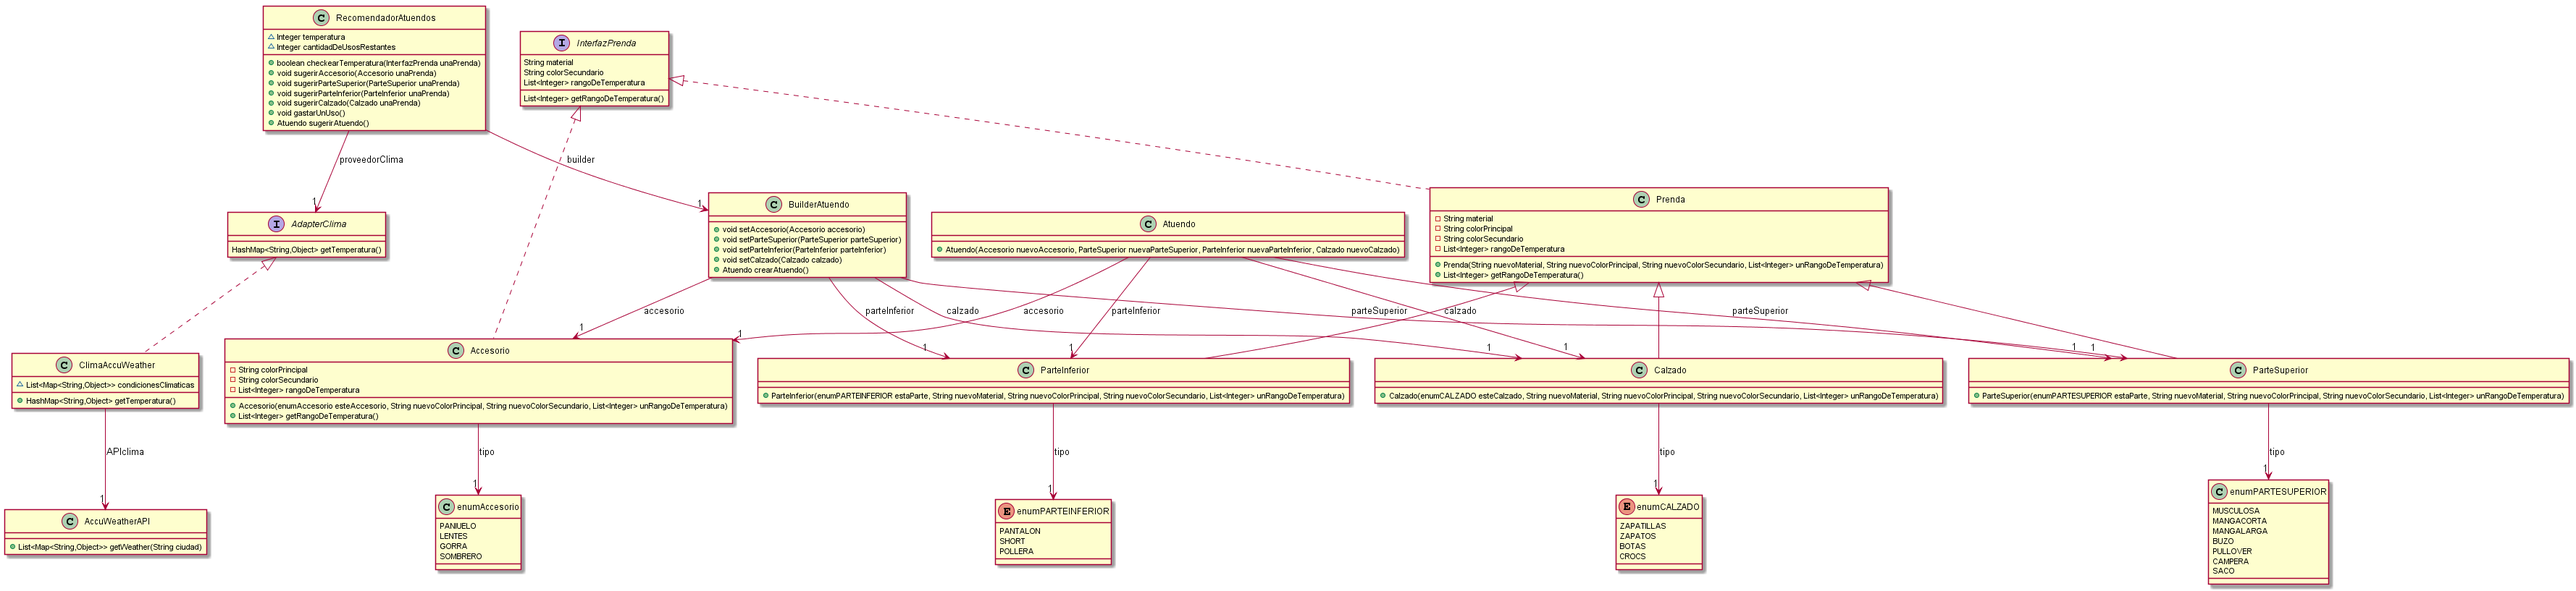
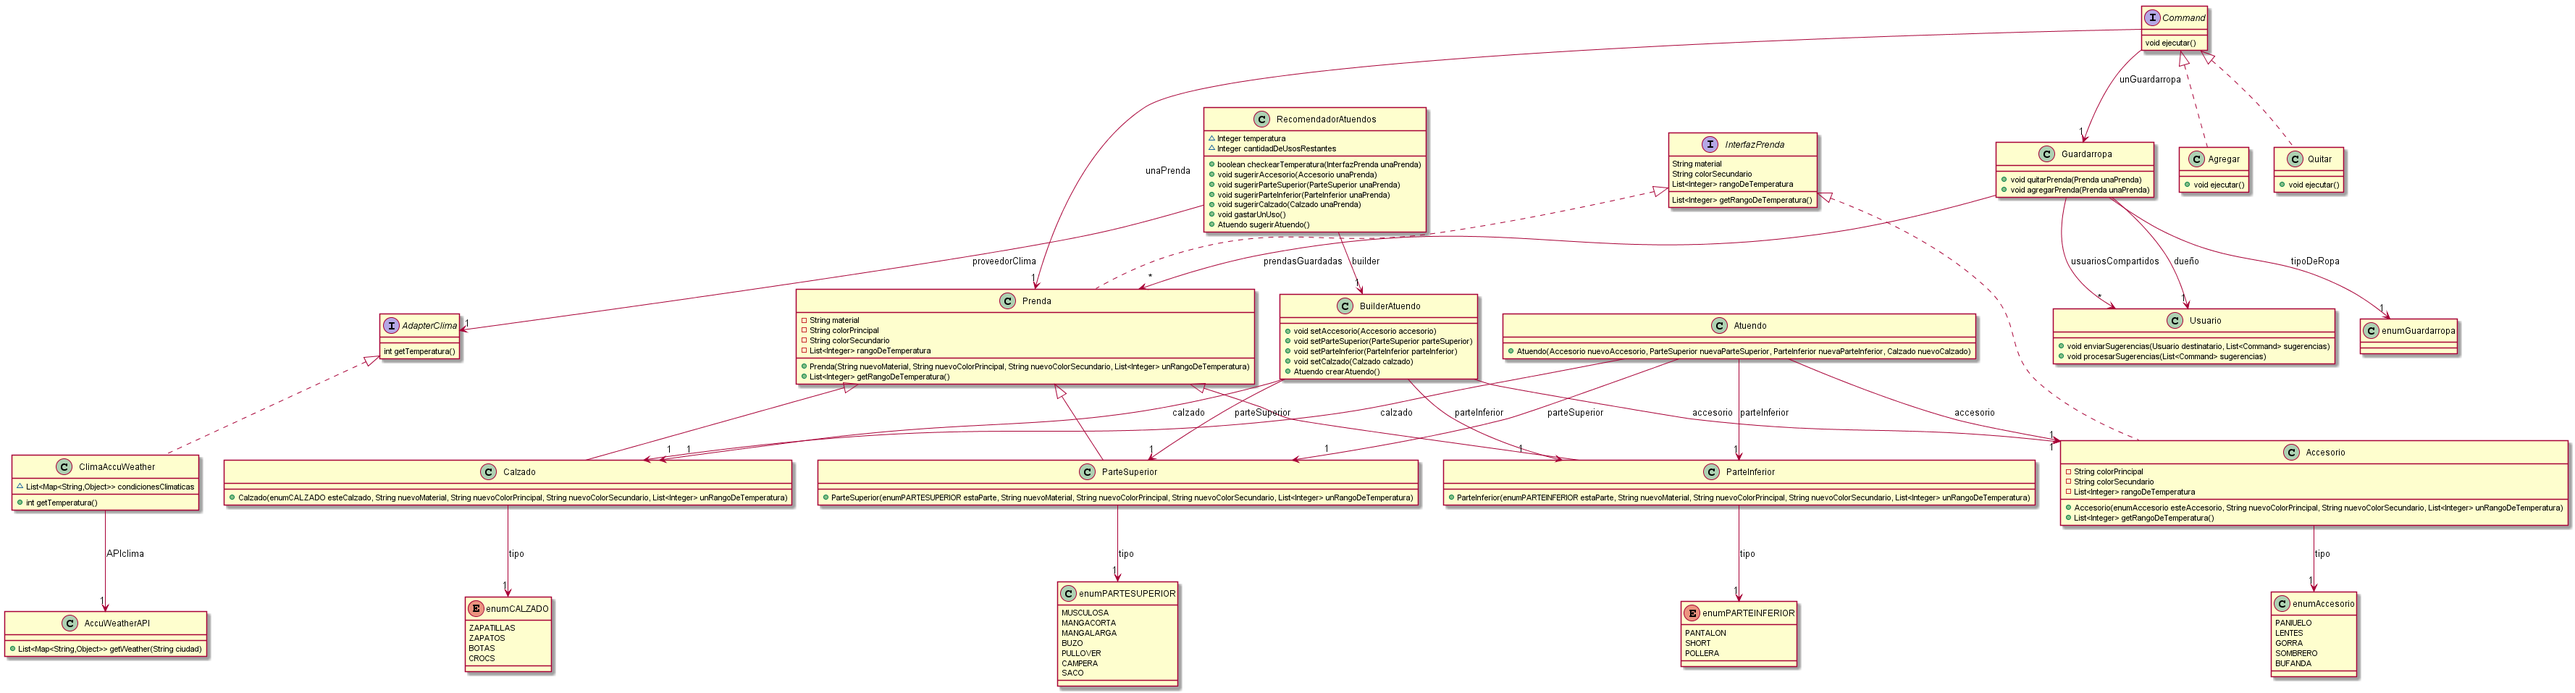
Realizada iteración 5 del ejercicio. No logré resolver el último requerimiento.

diff --git a/src/main/java/domain/Usuario.java b/src/main/java/domain/Usuario.java
@@ -1,0 +1,15 @@
+package domain;
+
+import java.util.List;
+
+public class Usuario {
+	
+	
+	public void enviarSugerencias(Usuario destinatario, List<Command> sugerencias) {
+		destinatario.procesarSugerencias(sugerencias);
+	}
+	
+	public void procesarSugerencias(List<Command> sugerencias) {
+		sugerencias.parallelStream().forEach(sugerencia -> sugerencia.ejecutar());
+	}
+}

diff --git a/src/main/java/domain/Agregar.java b/src/main/java/domain/Agregar.java
@@ -1,0 +1,12 @@
+package domain;
+
+public class Agregar implements Command {
+
+	@Override
+	public void ejecutar() {
+		unGuardarropa.agregarPrenda(unaPrenda);
+
+	}
+
+
+}

diff --git a/src/main/java/domain/Quitar.java b/src/main/java/domain/Quitar.java
@@ -1,0 +1,11 @@
+package domain;
+
+public class Quitar implements Command {
+
+	@Override
+	public void ejecutar() {
+		unGuardarropa.quitarPrenda(unaPrenda);
+
+	}
+
+}

diff --git a/src/main/java/domain/Command.java b/src/main/java/domain/Command.java
@@ -1,0 +1,8 @@
+package domain;
+
+public interface Command {
+	Guardarropa unGuardarropa = new Guardarropa();
+	Prenda unaPrenda = null;
+	
+	void ejecutar();
+}

diff --git a/src/main/java/domain/enumGuardarropa.java b/src/main/java/domain/enumGuardarropa.java
@@ -1,0 +1,5 @@
+package domain;
+
+public enum enumGuardarropa {
+
+}
